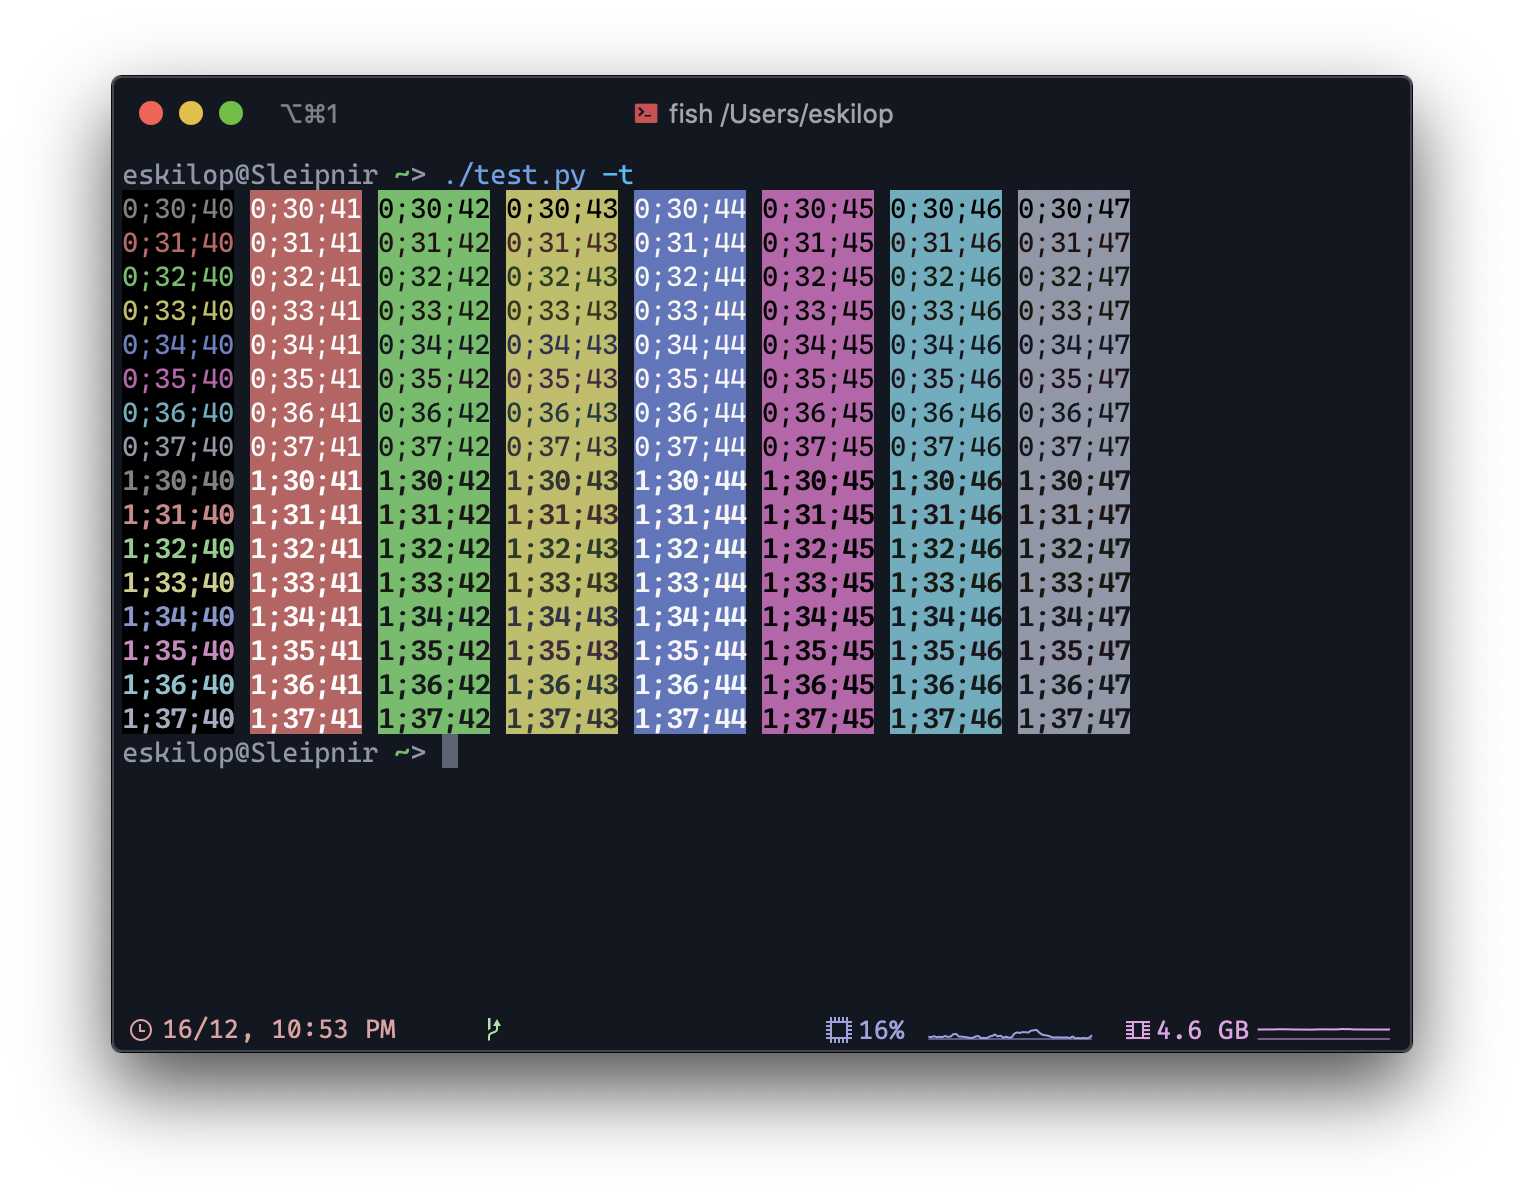
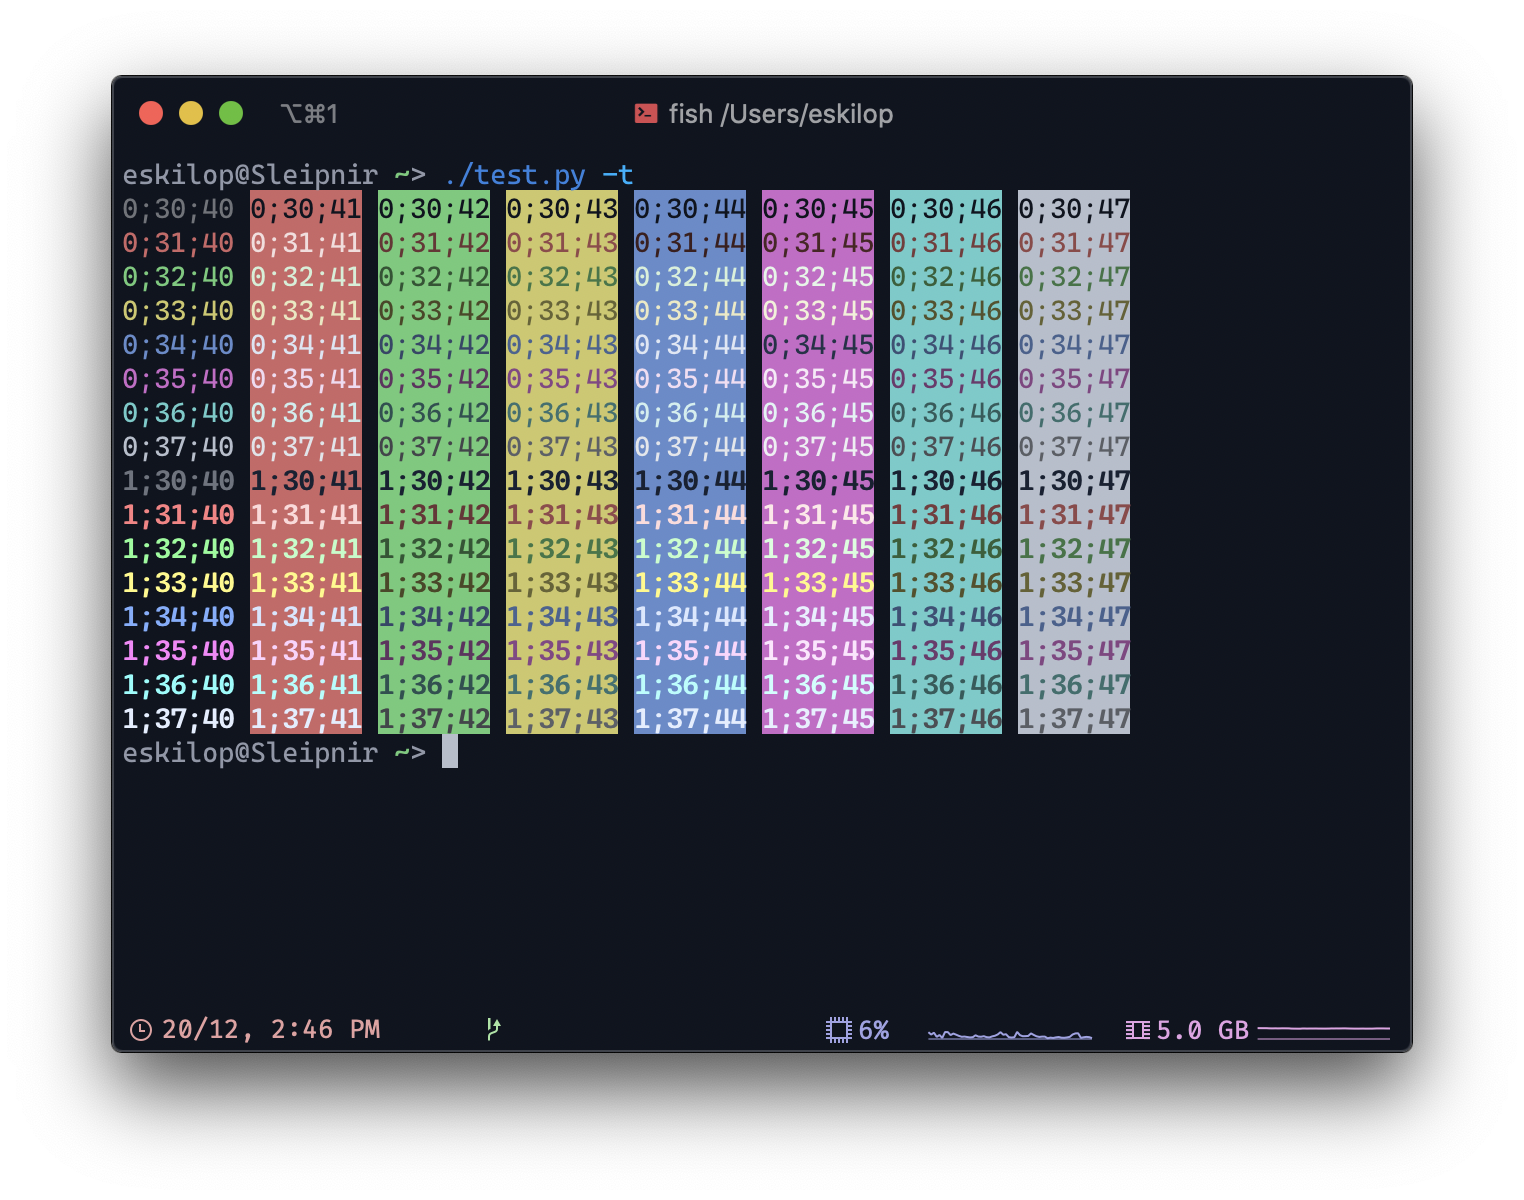
Brighten colors, add Terminal.app profile, remove .DS_Store, update README

diff --git a/README.md b/README.md
@@ -1,9 +1,20 @@
-# NorthernLights for iTerm
-My NorthernLights Theme, for iTerm.
+# NorthernLights for Terminals
+My NorthernLights Theme, for various terminals.
 
 ![](./screenshots/colors.png)
 
 # Installation
-- Download [the profile](https://raw.githubusercontent.com/eskilop/NorthernLights-iTerm/master/NorthernLights.itermcolors) (Right click, save as...)
+- Download the right profile (Right click, save as...):
+  - [iTerm](https://raw.githubusercontent.com/eskilop/NorthernLights-iTerm/master/NorthernLights.itermcolors)
+  - [Terminal.app](https://raw.githubusercontent.com/eskilop/NorthernLights-iTerm/master/NorthernLights.terminal)
+
+## Terminal.app
+- Open settings > Profiles
+- Click the third button (lower right, on the left side of the screen) > Import
+- Select the profile you downloaded earlier.
+
+## iTerm
 - Open iTerm preferences > Profiles > Colors > Color Presets... > Import...
-- Select the profile you downloaded earlier
+- Select the profile you downloaded earlier.
+
+### Having problems/suggestions? Join [The discord server](https://discord.gg/6eMxyHT)!
